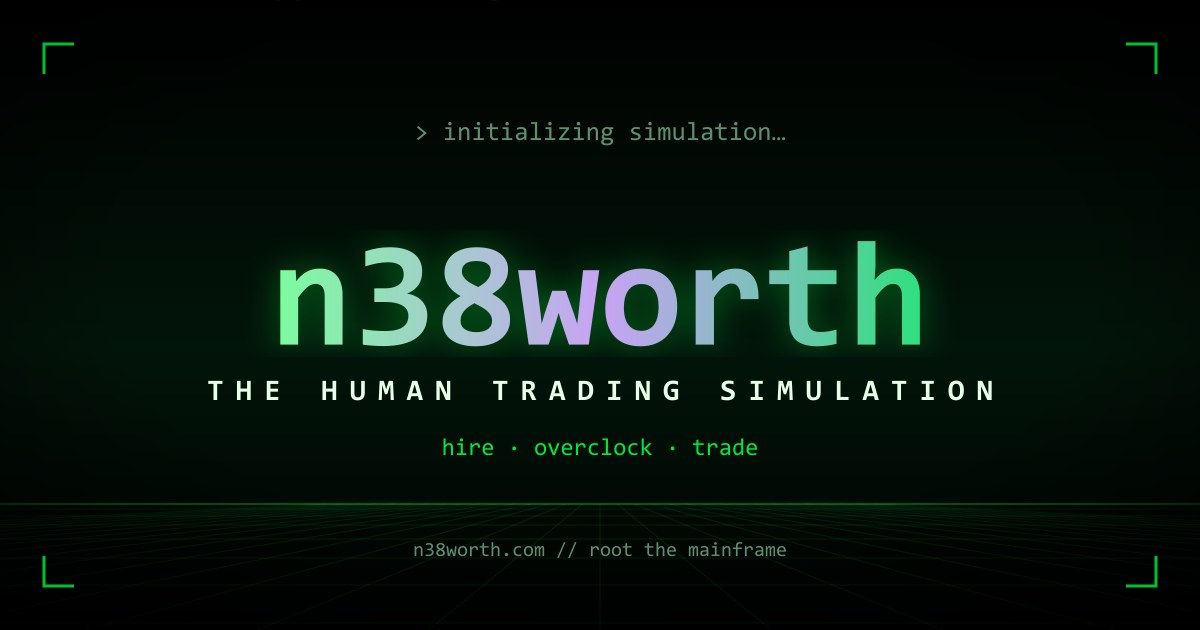
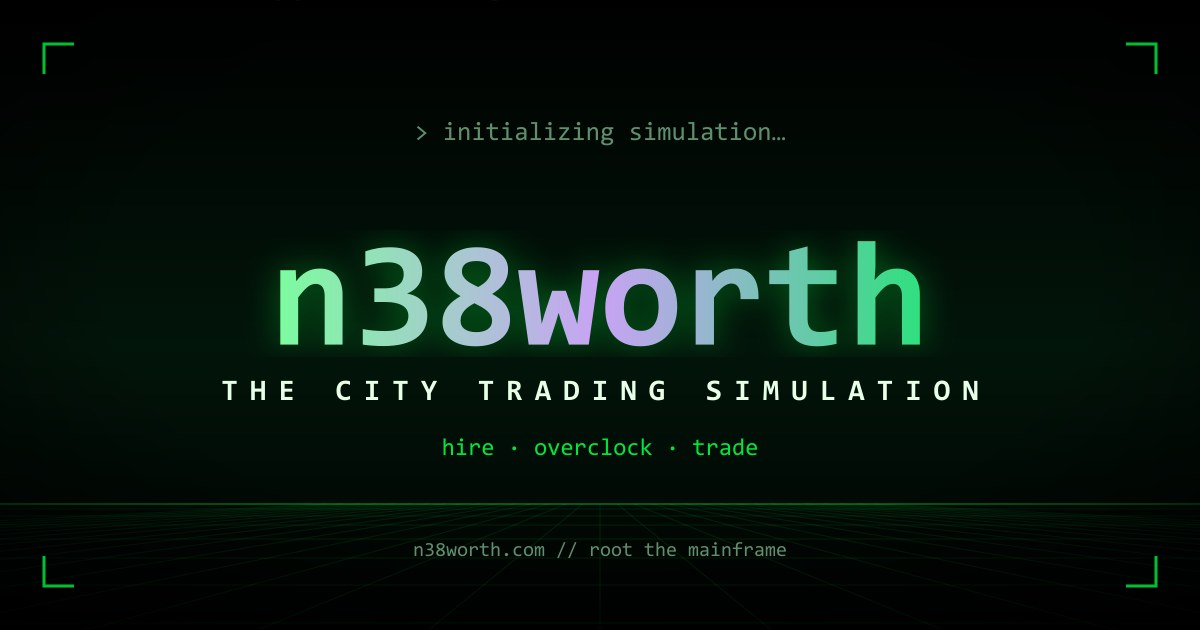
Slogan: "The City Trading Simulation" everywhere (landing, SEO metadata, OG art)

Changed region(s): [[0.1542, 0.6032, 0.8325, 0.6333]]

diff --git a/src/app/layout.tsx b/src/app/layout.tsx
@@ -17,11 +17,11 @@ const geistMono = Geist_Mono({
 export const metadata: Metadata = {
   metadataBase: new URL("https://n38worth.com"),
   title: "n38worth",
-  description: "The human trading simulation — hire, overclock and trade avatars inside the mainframe.",
+  description: "The city trading simulation — hire, overclock and trade avatars inside the mainframe.",
   keywords: ["trading", "game", "social", "MMO", "multiplayer", "simulation", "matrix"],
   openGraph: {
     title: "n38worth",
-    description: "The human trading simulation — hire, overclock and trade avatars inside the mainframe.",
+    description: "The city trading simulation — hire, overclock and trade avatars inside the mainframe.",
     siteName: "n38worth",
     type: "website",
     url: "https://n38worth.com",
@@ -30,7 +30,7 @@ export const metadata: Metadata = {
   twitter: {
     card: "summary_large_image",
     title: "n38worth",
-    description: "The human trading simulation — hire, overclock and trade avatars inside the mainframe.",
+    description: "The city trading simulation — hire, overclock and trade avatars inside the mainframe.",
     // images generated dynamically by src/app/twitter-image.tsx
   },
   icons: {

diff --git a/src/lib/i18n.ts b/src/lib/i18n.ts
@@ -108,7 +108,7 @@ const en = {
   somethingWrong: "Something went wrong. Please try again.",
   quickPlayFailed: "Quick play failed",
 
-  landingTagline: "the human trading simulation",
+  landingTagline: "the city trading simulation",
   landingToggleSound: "Toggle sound",
   landingStartHere: "Start Here",
   kinLabel: "From the same maker",
@@ -314,7 +314,7 @@ const zh: TranslationKeys = {
   somethingWrong: "出错了，请重试。",
   quickPlayFailed: "快速开始失败",
 
-  landingTagline: "人类交易模拟系统",
+  landingTagline: "城市交易模拟系统",
   landingToggleSound: "切换音效",
   landingStartHere: "从这里开始",
   kinLabel: "出自同一作者",

diff --git a/scripts/gen-scifi-art.ts b/scripts/gen-scifi-art.ts
@@ -256,7 +256,7 @@ function ogSvg(w: number, h: number): string {
   <!-- Tagline + action line -->
   <text x="${w / 2}" y="400" text-anchor="middle"
         font-family="Consolas, 'Courier New', monospace" font-weight="bold"
-        font-size="30" letter-spacing="12" fill="#e8ffe8">THE HUMAN TRADING SIMULATION</text>
+        font-size="30" letter-spacing="12" fill="#e8ffe8">THE CITY TRADING SIMULATION</text>
   <text x="${w / 2}" y="455" text-anchor="middle"
         font-family="Consolas, 'Courier New', monospace"
         font-size="24" fill="#00ff41" opacity="0.9">hire · overclock · trade</text>

diff --git a/src/app/opengraph-image.tsx b/src/app/opengraph-image.tsx
@@ -2,7 +2,7 @@ import { readFile } from "node:fs/promises";
 import { join } from "node:path";
 
 export const runtime = "nodejs";
-export const alt = "n38worth — the human trading simulation";
+export const alt = "n38worth — the city trading simulation";
 export const size = { width: 1200, height: 630 };
 export const contentType = "image/jpeg";
 

diff --git a/src/app/twitter-image.tsx b/src/app/twitter-image.tsx
@@ -1,7 +1,7 @@
 import OpengraphImage from "./opengraph-image";
 
 export const runtime = "nodejs";
-export const alt = "n38worth — the human trading simulation";
+export const alt = "n38worth — the city trading simulation";
 export const size = { width: 1200, height: 630 };
 export const contentType = "image/jpeg";
 
